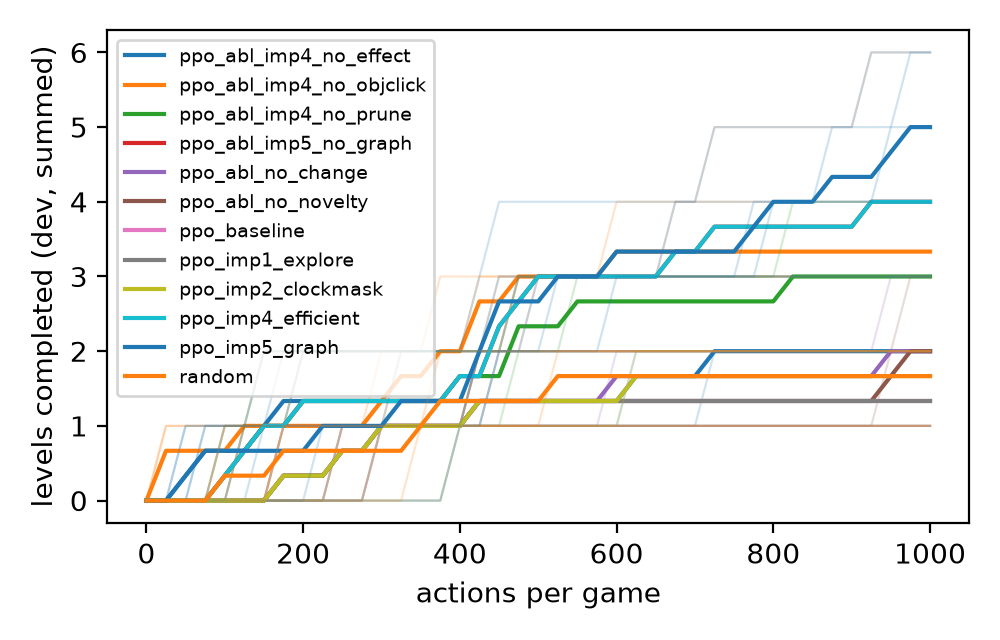
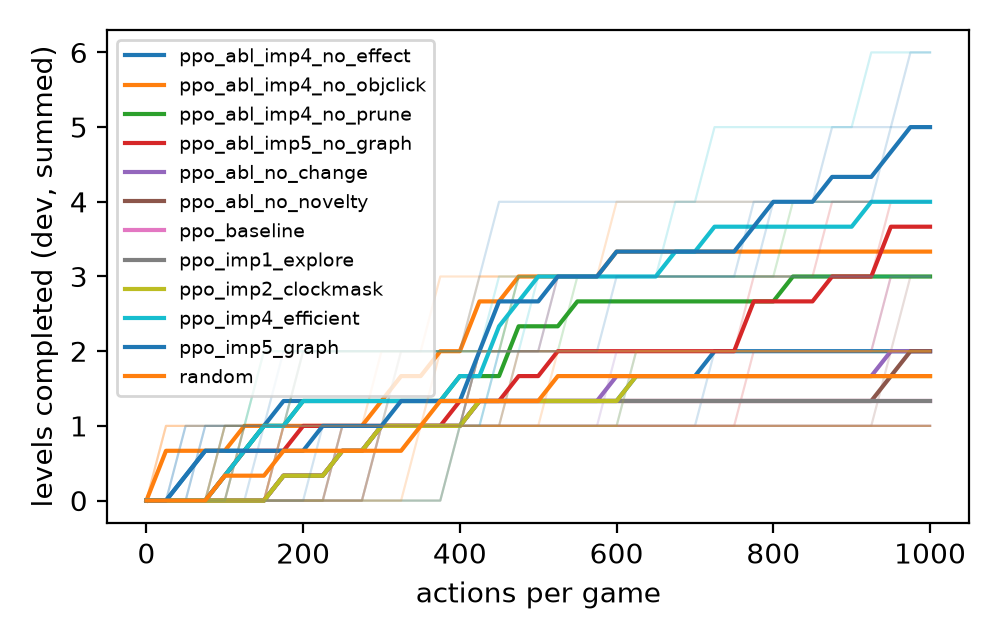
Submit DQN imp4 (best on all 25 public games)

diff --git a/outputs/figures/summary.tex b/outputs/figures/summary.tex
@@ -5,30 +5,45 @@ run_name & split & seeds & score_mean & score_std & score_ci95 & levels_mean & l
 dqn_abl_imp4_no_effect & dev & 3 & 0.05 & 0.08 & 0.09 & 3.00 & 1.00 & 0.00 & 15000.00 & 1500.84 & 0.81 & 9417.33 & 0.64 \\
 dqn_abl_imp4_no_objclick & dev & 3 & 0.06 & 0.05 & 0.06 & 2.67 & 0.58 & 0.00 & 15000.00 & 978.73 & 0.80 & 8425.33 & 0.59 \\
 dqn_abl_imp4_no_prune & dev & 3 & 0.14 & 0.16 & 0.18 & 3.00 & 1.00 & 0.00 & 15000.00 & 1638.46 & 0.79 & 9393.00 & 0.52 \\
-dqn_abl_imp5_no_graph & dev & 3 & 0.14 & 0.16 & 0.18 & 3.00 & 1.00 & 0.00 & 15000.00 & 1488.68 & 0.82 & 9962.33 & 0.65 \\
+dqn_abl_imp5_no_graph & dev & 3 & 0.14 & 0.17 & 0.19 & 3.00 & 1.00 & 0.00 & 15000.00 & 1104.81 & 0.83 & 10062.33 & 0.71 \\
 dqn_abl_no_change & dev & 3 & 0.11 & 0.18 & 0.20 & 2.33 & 0.58 & 0.00 & 15000.00 & 1014.00 & 0.72 & 6802.67 & NaN \\
 dqn_abl_no_novelty & dev & 3 & 0.11 & 0.18 & 0.20 & 2.33 & 0.58 & 0.00 & 15000.00 & 982.60 & 0.75 & 6611.67 & NaN \\
 dqn_abl_scratch_loweps & dev_b & 3 & 0.01 & 0.02 & 0.02 & 0.33 & 0.58 & 0.00 & 5000.00 & 330.48 & 0.56 & 763.33 & NaN \\
 dqn_baseline & dev & 3 & 0.11 & 0.18 & 0.20 & 1.67 & 0.58 & 0.00 & 15000.00 & 1423.64 & 0.67 & 5738.00 & NaN \\
+dqn_baseline & heldout & 3 & 0.00 & 0.00 & 0.00 & 0.00 & 0.00 & 0.00 & 10000.00 & 670.99 & 0.69 & 4199.00 & 0.69 \\
 dqn_imp1_explore & dev & 3 & 0.11 & 0.18 & 0.20 & 2.00 & 1.00 & 0.00 & 15000.00 & 1410.52 & 0.74 & 6577.00 & NaN \\
+dqn_imp1_explore & heldout & 3 & 0.00 & 0.00 & 0.00 & 0.33 & 0.58 & 0.00 & 10000.00 & 671.38 & 0.73 & 4442.33 & 0.73 \\
 dqn_imp2_clockmask & dev & 3 & 0.11 & 0.18 & 0.20 & 2.67 & 0.58 & 0.00 & 15000.00 & 1548.01 & 0.74 & 6981.67 & NaN \\
+dqn_imp2_clockmask & heldout & 3 & 0.00 & 0.00 & 0.00 & 0.33 & 0.58 & 0.00 & 10000.00 & 670.32 & 0.73 & 4468.00 & 0.35 \\
 dqn_imp3_pretrain & dev_b & 3 & 0.01 & 0.01 & 0.01 & 1.33 & 0.58 & 0.00 & 5000.00 & 328.92 & 0.53 & 1145.67 & NaN \\
+dqn_imp3_pretrain_final & heldout & 3 & 0.00 & 0.00 & 0.00 & 0.00 & 0.00 & 0.00 & 10000.00 & 465.60 & 0.74 & 4002.67 & 0.35 \\
 dqn_imp4_efficient & dev & 3 & 0.14 & 0.16 & 0.18 & 3.00 & 1.00 & 0.00 & 15000.00 & 1721.66 & 0.82 & 9962.33 & 0.65 \\
+dqn_imp4_efficient & heldout & 3 & 0.09 & 0.12 & 0.13 & 3.33 & 1.16 & 0.00 & 10000.00 & 753.41 & 0.80 & 6110.33 & 0.53 \\
 dqn_imp5_graph & dev & 3 & 0.14 & 0.15 & 0.17 & 4.67 & 1.53 & 0.00 & 15000.00 & 1278.31 & 0.81 & 9954.00 & 0.66 \\
+dqn_imp5_graph & heldout & 3 & 0.01 & 0.01 & 0.01 & 2.67 & 1.53 & 0.00 & 10000.00 & 730.44 & 0.76 & 5680.67 & 0.53 \\
 ppo_abl_imp4_no_effect & dev & 3 & 0.06 & 0.05 & 0.06 & 2.00 & 0.00 & 0.00 & 15000.00 & 488.27 & 0.73 & 8756.67 & 0.50 \\
 ppo_abl_imp4_no_objclick & dev & 3 & 0.20 & 0.17 & 0.19 & 3.33 & 0.58 & 0.00 & 15000.00 & 917.40 & 0.79 & 8214.00 & 0.57 \\
 ppo_abl_imp4_no_prune & dev & 3 & 0.02 & 0.01 & 0.01 & 3.00 & 1.00 & 0.00 & 15000.00 & 897.06 & 0.78 & 9318.00 & 0.56 \\
-ppo_abl_imp5_no_graph & dev & 3 & 0.03 & 0.03 & 0.03 & 4.00 & 1.73 & 0.00 & 15000.00 & 597.53 & 0.80 & 9818.67 & 0.63 \\
+ppo_abl_imp5_no_graph & dev & 3 & 0.01 & 0.01 & 0.01 & 3.67 & 0.58 & 0.00 & 15000.00 & 630.34 & 0.81 & 9685.33 & 0.68 \\
 ppo_abl_no_change & dev & 3 & 0.00 & 0.00 & 0.00 & 2.00 & 1.00 & 0.00 & 15000.00 & 422.14 & 0.70 & 6426.67 & NaN \\
 ppo_abl_no_novelty & dev & 3 & 0.00 & 0.00 & 0.00 & 2.00 & 1.00 & 0.00 & 15000.00 & 428.29 & 0.72 & 6793.33 & NaN \\
 ppo_baseline & dev & 3 & 0.00 & 0.00 & 0.00 & 1.33 & 0.58 & 0.00 & 15000.00 & 494.39 & 0.68 & 5911.33 & NaN \\
+ppo_baseline & heldout & 3 & 0.01 & 0.01 & 0.01 & 0.67 & 0.58 & 0.00 & 10000.00 & 503.54 & 0.66 & 3827.67 & 0.66 \\
 ppo_imp1_explore & dev & 3 & 0.00 & 0.00 & 0.00 & 1.33 & 0.58 & 0.00 & 15000.00 & 1031.96 & 0.71 & 6356.00 & NaN \\
+ppo_imp1_explore & heldout & 3 & 0.01 & 0.01 & 0.02 & 0.67 & 1.16 & 0.00 & 10000.00 & 552.87 & 0.69 & 4275.00 & 0.69 \\
 ppo_imp2_clockmask & dev & 3 & 0.00 & 0.00 & 0.00 & 1.67 & 0.58 & 0.00 & 15000.00 & 546.76 & 0.71 & 6677.67 & NaN \\
+ppo_imp2_clockmask & heldout & 3 & 0.01 & 0.01 & 0.01 & 0.33 & 0.58 & 0.00 & 10000.00 & 361.78 & 0.69 & 4428.33 & 0.29 \\
 ppo_imp3_pretrain & dev_b & 3 & 0.00 & 0.00 & 0.00 & 0.33 & 0.58 & 0.00 & 5000.00 & 130.16 & 0.61 & 1747.67 & NaN \\
+ppo_imp3_pretrain_final & heldout & 3 & 0.00 & 0.00 & 0.00 & 0.00 & 0.00 & 0.00 & 10000.00 & 287.19 & 0.76 & 5126.67 & 0.43 \\
 ppo_imp4_efficient & dev & 3 & 0.03 & 0.03 & 0.03 & 4.00 & 1.73 & 0.00 & 15000.00 & 514.88 & 0.80 & 9818.67 & 0.63 \\
+ppo_imp4_efficient & heldout & 3 & 0.00 & 0.00 & 0.00 & 2.00 & 1.73 & 0.00 & 10000.00 & 333.16 & 0.80 & 5794.33 & 0.52 \\
 ppo_imp5_graph & dev & 3 & 0.07 & 0.07 & 0.09 & 5.00 & 1.00 & 0.00 & 15000.00 & 638.32 & 0.80 & 9787.33 & 0.64 \\
+ppo_imp5_graph & heldout & 3 & 0.01 & 0.01 & 0.01 & 2.33 & 1.16 & 0.00 & 10000.00 & 321.38 & 0.74 & 5508.00 & 0.49 \\
 random & dev & 3 & 0.01 & 0.01 & 0.01 & 1.67 & 0.58 & 0.00 & 15000.00 & 55.45 & 0.68 & 5922.33 & NaN \\
+random & heldout & 3 & 0.00 & 0.00 & 0.00 & 0.33 & 0.58 & 0.00 & 10000.00 & 38.15 & 0.66 & 3979.67 & 0.66 \\
 random_imp4_actions & dev & 3 & 0.23 & 0.14 & 0.16 & 1.33 & 0.58 & 0.00 & 15000.00 & 72.46 & 0.69 & 8025.33 & 0.45 \\
+random_imp4_actions & heldout & 3 & 0.00 & 0.00 & 0.00 & 1.00 & 0.00 & 0.00 & 10000.00 & 57.53 & 0.68 & 4479.67 & 0.31 \\
 random_imp5_graph & dev & 3 & 0.24 & 0.14 & 0.16 & 2.67 & 1.16 & 0.00 & 15000.00 & 38.63 & 0.69 & 8462.33 & 0.47 \\
+random_imp5_graph & heldout & 3 & 0.00 & 0.00 & 0.00 & 1.67 & 0.58 & 0.00 & 10000.00 & 58.42 & 0.67 & 4629.67 & 0.36 \\
 \bottomrule
 \end{tabular}

diff --git a/outputs/figures/summary.md b/outputs/figures/summary.md
@@ -3,28 +3,43 @@
 | dqn_abl_imp4_no_effect   | dev     |       3 |        0.054 |       0.081 |        0.092 |         3     |        1     |           0 |          15000 |           1500.84  |              0.814 |             9417.33  |              0.642 |
 | dqn_abl_imp4_no_objclick | dev     |       3 |        0.056 |       0.052 |        0.059 |         2.667 |        0.577 |           0 |          15000 |            978.727 |              0.803 |             8425.33  |              0.592 |
 | dqn_abl_imp4_no_prune    | dev     |       3 |        0.139 |       0.156 |        0.176 |         3     |        1     |           0 |          15000 |           1638.46  |              0.79  |             9393     |              0.518 |
-| dqn_abl_imp5_no_graph    | dev     |       3 |        0.138 |       0.156 |        0.177 |         3     |        1     |           0 |          15000 |           1488.68  |              0.823 |             9962.33  |              0.65  |
+| dqn_abl_imp5_no_graph    | dev     |       3 |        0.142 |       0.165 |        0.187 |         3     |        1     |           0 |          15000 |           1104.81  |              0.833 |            10062.3   |              0.715 |
 | dqn_abl_no_change        | dev     |       3 |        0.11  |       0.179 |        0.203 |         2.333 |        0.577 |           0 |          15000 |           1014     |              0.716 |             6802.67  |            nan     |
 | dqn_abl_no_novelty       | dev     |       3 |        0.11  |       0.178 |        0.202 |         2.333 |        0.577 |           0 |          15000 |            982.6   |              0.746 |             6611.67  |            nan     |
 | dqn_abl_scratch_loweps   | dev_b   |       3 |        0.009 |       0.016 |        0.018 |         0.333 |        0.577 |           0 |           5000 |            330.483 |              0.561 |              763.333 |            nan     |
 | dqn_baseline             | dev     |       3 |        0.108 |       0.18  |        0.204 |         1.667 |        0.577 |           0 |          15000 |           1423.64  |              0.671 |             5738     |            nan     |
+| dqn_baseline             | heldout |       3 |        0     |       0     |        0     |         0     |        0     |           0 |          10000 |            670.993 |              0.686 |             4199     |              0.686 |
 | dqn_imp1_explore         | dev     |       3 |        0.112 |       0.177 |        0.2   |         2     |        1     |           0 |          15000 |           1410.52  |              0.742 |             6577     |            nan     |
+| dqn_imp1_explore         | heldout |       3 |        0.001 |       0.002 |        0.002 |         0.333 |        0.577 |           0 |          10000 |            671.383 |              0.729 |             4442.33  |              0.729 |
 | dqn_imp2_clockmask       | dev     |       3 |        0.113 |       0.176 |        0.199 |         2.667 |        0.577 |           0 |          15000 |           1548.01  |              0.741 |             6981.67  |            nan     |
+| dqn_imp2_clockmask       | heldout |       3 |        0     |       0.001 |        0.001 |         0.333 |        0.577 |           0 |          10000 |            670.323 |              0.727 |             4468     |              0.35  |
 | dqn_imp3_pretrain        | dev_b   |       3 |        0.005 |       0.006 |        0.007 |         1.333 |        0.577 |           0 |           5000 |            328.917 |              0.533 |             1145.67  |            nan     |
+| dqn_imp3_pretrain_final  | heldout |       3 |        0     |       0     |        0     |         0     |        0     |           0 |          10000 |            465.597 |              0.74  |             4002.67  |              0.347 |
 | dqn_imp4_efficient       | dev     |       3 |        0.138 |       0.156 |        0.177 |         3     |        1     |           0 |          15000 |           1721.66  |              0.823 |             9962.33  |              0.65  |
+| dqn_imp4_efficient       | heldout |       3 |        0.094 |       0.117 |        0.132 |         3.333 |        1.155 |           0 |          10000 |            753.407 |              0.802 |             6110.33  |              0.529 |
 | dqn_imp5_graph           | dev     |       3 |        0.141 |       0.154 |        0.175 |         4.667 |        1.528 |           0 |          15000 |           1278.31  |              0.811 |             9954     |              0.657 |
+| dqn_imp5_graph           | heldout |       3 |        0.005 |       0.006 |        0.007 |         2.667 |        1.528 |           0 |          10000 |            730.437 |              0.761 |             5680.67  |              0.526 |
 | ppo_abl_imp4_no_effect   | dev     |       3 |        0.061 |       0.052 |        0.059 |         2     |        0     |           0 |          15000 |            488.27  |              0.734 |             8756.67  |              0.503 |
 | ppo_abl_imp4_no_objclick | dev     |       3 |        0.2   |       0.167 |        0.189 |         3.333 |        0.577 |           0 |          15000 |            917.4   |              0.79  |             8214     |              0.572 |
 | ppo_abl_imp4_no_prune    | dev     |       3 |        0.016 |       0.012 |        0.014 |         3     |        1     |           0 |          15000 |            897.063 |              0.778 |             9318     |              0.562 |
-| ppo_abl_imp5_no_graph    | dev     |       3 |        0.027 |       0.029 |        0.032 |         4     |        1.732 |           0 |          15000 |            597.533 |              0.8   |             9818.67  |              0.627 |
+| ppo_abl_imp5_no_graph    | dev     |       3 |        0.014 |       0.013 |        0.015 |         3.667 |        0.577 |           0 |          15000 |            630.337 |              0.808 |             9685.33  |              0.683 |
 | ppo_abl_no_change        | dev     |       3 |        0.003 |       0.002 |        0.002 |         2     |        1     |           0 |          15000 |            422.137 |              0.697 |             6426.67  |            nan     |
 | ppo_abl_no_novelty       | dev     |       3 |        0.003 |       0.002 |        0.002 |         2     |        1     |           0 |          15000 |            428.287 |              0.716 |             6793.33  |            nan     |
 | ppo_baseline             | dev     |       3 |        0.003 |       0.002 |        0.002 |         1.333 |        0.577 |           0 |          15000 |            494.387 |              0.675 |             5911.33  |            nan     |
+| ppo_baseline             | heldout |       3 |        0.01  |       0.013 |        0.014 |         0.667 |        0.577 |           0 |          10000 |            503.537 |              0.656 |             3827.67  |              0.656 |
 | ppo_imp1_explore         | dev     |       3 |        0.003 |       0.002 |        0.002 |         1.333 |        0.577 |           0 |          15000 |           1031.96  |              0.712 |             6356     |            nan     |
+| ppo_imp1_explore         | heldout |       3 |        0.008 |       0.014 |        0.016 |         0.667 |        1.155 |           0 |          10000 |            552.867 |              0.693 |             4275     |              0.693 |
 | ppo_imp2_clockmask       | dev     |       3 |        0.003 |       0.003 |        0.003 |         1.667 |        0.577 |           0 |          15000 |            546.757 |              0.711 |             6677.67  |            nan     |
+| ppo_imp2_clockmask       | heldout |       3 |        0.008 |       0.013 |        0.015 |         0.333 |        0.577 |           0 |          10000 |            361.78  |              0.695 |             4428.33  |              0.286 |
 | ppo_imp3_pretrain        | dev_b   |       3 |        0     |       0     |        0     |         0.333 |        0.577 |           0 |           5000 |            130.16  |              0.613 |             1747.67  |            nan     |
+| ppo_imp3_pretrain_final  | heldout |       3 |        0     |       0     |        0     |         0     |        0     |           0 |          10000 |            287.187 |              0.762 |             5126.67  |              0.432 |
 | ppo_imp4_efficient       | dev     |       3 |        0.027 |       0.029 |        0.032 |         4     |        1.732 |           0 |          15000 |            514.877 |              0.8   |             9818.67  |              0.627 |
+| ppo_imp4_efficient       | heldout |       3 |        0.003 |       0.003 |        0.003 |         2     |        1.732 |           0 |          10000 |            333.16  |              0.798 |             5794.33  |              0.515 |
 | ppo_imp5_graph           | dev     |       3 |        0.07  |       0.075 |        0.085 |         5     |        1     |           0 |          15000 |            638.32  |              0.797 |             9787.33  |              0.635 |
+| ppo_imp5_graph           | heldout |       3 |        0.005 |       0.007 |        0.008 |         2.333 |        1.155 |           0 |          10000 |            321.377 |              0.743 |             5508     |              0.492 |
 | random                   | dev     |       3 |        0.01  |       0.011 |        0.012 |         1.667 |        0.577 |           0 |          15000 |             55.447 |              0.676 |             5922.33  |            nan     |
+| random                   | heldout |       3 |        0.002 |       0.003 |        0.003 |         0.333 |        0.577 |           0 |          10000 |             38.15  |              0.66  |             3979.67  |              0.66  |
 | random_imp4_actions      | dev     |       3 |        0.235 |       0.144 |        0.162 |         1.333 |        0.577 |           0 |          15000 |             72.463 |              0.694 |             8025.33  |              0.446 |
+| random_imp4_actions      | heldout |       3 |        0.001 |       0.001 |        0.001 |         1     |        0     |           0 |          10000 |             57.53  |              0.675 |             4479.67  |              0.314 |
 | random_imp5_graph        | dev     |       3 |        0.236 |       0.142 |        0.161 |         2.667 |        1.155 |           0 |          15000 |             38.633 |              0.692 |             8462.33  |              0.472 |
+| random_imp5_graph        | heldout |       3 |        0.001 |       0.001 |        0.001 |         1.667 |        0.577 |           0 |          10000 |             58.42  |              0.673 |             4629.67  |              0.363 |

diff --git a/docs/EXPERIMENT_LOG.md b/docs/EXPERIMENT_LOG.md
@@ -26,6 +26,9 @@ Hardware for all rows so far: MacBook Pro, Intel x86_64 CPU, no GPU, torch 2.2.2
 | 25 Sept | random_imp5_graph | random_imp5_graph.yaml | dev | 0,1,2 | 0.236 ± 0.142 | 2.67 ± 1.15 | 1 min | control; graph without learning |
 | 25 Sept | dqn_imp5_graph | dqn_imp5_graph.yaml | dev | 0,1,2 | 0.141 ± 0.154 | 4.67 ± 1.53 | 21 min | 2 × tu93 level 2; determinism 98.6% |
 | 25 Sept | ppo_imp5_graph | ppo_imp5_graph.yaml | dev | 0,1,2 | 0.070 ± 0.075 | 5.00 ± 1.00 | 11 min | 2 × tu93 level 2; determinism 98.6% |
+| 25 Sept | dqn_abl_imp5_no_graph (rerun) | ablations/dqn_imp5_no_graph.yaml | dev | 0,1,2 | 0.142 | 3.00 ± 1.00 | 18 min | valid after fix; no tu93 |
+| 25 Sept | ppo_abl_imp5_no_graph (rerun) | ablations/ppo_imp5_no_graph.yaml | dev | 0,1,2 | 0.014 | 3.67 ± 0.58 | 11 min | valid after fix; no tu93 |
+| 25–26 Sept | 15 versions | see held-out section | heldout | 0,1,2 | see held-out section | | | run once |
 
 Improvement 3 runs (dev_b = cn04, lp85, sk48, su15, tu93; levels out of 5 games' worth; imp1/imp2/baselines pooled from dev runs):
 
@@ -410,8 +413,99 @@ comparing against published ARC-AGI-3 agents, which surfaced a limitation the lo
   `clock_mask_timed` are unaffected (bit-for-bit reproduction re-checked for baseline, imp2 and imp4). The graph path is
   unchanged, so imp5 results stand. Test added (`test_timed_clock_mask_is_active_without_graph`).
 - **What the invalid run still shows:** imp4 is reproducible run to run on the same machine and seeds (all numbers identical).
-- **Rerun:** pending (`--overwrite`).
-- **Result:**
+- **Rerun (25–26 Sept), valid result: the graph, not the timed mask, produces improvement 5's gain.**
+
+  | Run (dev) | Levels (per seed) | tu93 levels (sum over seeds) | Level-2 completions |
+  |---|---|---|---|
+  | dqn_imp4_efficient | 3.00 (4, 2, 3) | 0 | 0 |
+  | dqn_abl_imp5_no_graph (imp4 + timed mask) | 3.00 (3, 2, 4) | 0 | 0 |
+  | dqn_imp5_graph | 4.67 (6, 5, 3) | 4 | 2 |
+  | ppo_imp4_efficient | 4.00 (6, 3, 3) | 2 | 1 |
+  | ppo_abl_imp5_no_graph (imp4 + timed mask) | 3.67 (4, 3, 4) | 0 | 0 |
+  | ppo_imp5_graph | 5.00 (4, 5, 6) | 5 | 2 |
+
+  - The timed mask alone changes the runs (the ablation now differs from imp4 game by game) but not the level count:
+    DQN 3.00 → 3.00, PPO 4.00 → 3.67. It completes no tu93 levels at all, where the graph gives 4 (DQN) and 5 (PPO).
+  - So on dev, improvement 5's gain is attributable to the graph, and specifically to tu93, where return navigation is
+    active (15% of actions).
+
+## Held-out evaluation (25–26 Sept; 10 games never used in development; 3 seeds; run once, nothing tuned after)
+
+Games: ar25, bp35, cd82, dc22, ft09, g50t, lf52, m0r0, tr87, vc33. Levels are summed over the 10 games.
+
+| Run | Levels (per seed) | Games with ≥1 level | Level-2 completions | Distinct frames | Score |
+|---|---|---|---|---|---|
+| random | 0.33 (0, 1, 0) | 0.33 | 0 | 3980 | 0.002 |
+| random_imp4_actions | 1.00 (1, 1, 1) | 1.00 | 0 | 4480 | 0.001 |
+| random_imp5_graph | 1.67 (2, 1, 2) | 1.67 | 0 | 4630 | 0.001 |
+| dqn_baseline / imp1 / imp2 | 0.00 / 0.33 / 0.33 | ≤ 0.33 | 0 | 4199 / 4442 / 4468 | ≤ 0.001 |
+| dqn_imp3_pretrain_final | 0.00 (0, 0, 0) | 0 | 0 | 4003 | 0.000 |
+| **dqn_imp4_efficient** | **3.33 (2, 4, 4)** | **2.33** | **3** | **6110** | **0.094** |
+| dqn_imp5_graph | 2.67 (4, 1, 3) | 2.67 | 0 | 5681 | 0.005 |
+| ppo_baseline / imp1 / imp2 | 0.67 / 0.67 / 0.33 | ≤ 0.67 | 0 | 3828 / 4275 / 4428 | ≤ 0.010 |
+| ppo_imp3_pretrain_final | 0.00 (0, 0, 0) | 0 | 0 | 5127 | 0.000 |
+| ppo_imp4_efficient | 2.00 (4, 1, 1) | 1.67 | 1 | 5794 | 0.003 |
+| ppo_imp5_graph | 2.33 (3, 3, 1) | 2.33 | 0 | 5508 | 0.005 |
+
+- **Improvements 1–3 do not generalise.** Baselines, shaping (imp1, imp2) and pretraining (imp3) complete 0–0.67 levels
+  on held-out games, at or below plain random (0.33). Pretraining on all 15 dev games gave 0 levels for both algorithms
+  (imp2 from scratch: 0.33 each). The dev_b finding (exploration transfers, goals do not) held, and on held-out games
+  even the exploration benefit gave no levels.
+- **Improvement 4 generalises; it is the main held-out result.** DQN imp4 3.33 and PPO imp4 2.00 levels, against 0.33
+  for imp2. Both are above random over the same action abstraction (1.00). DQN imp4 also produced every held-out
+  second level: vc33 (seed 0 at actions 681/713, seed 1 at 385/868) and ar25 (seed 2 at 624/788).
+- **Within-game learning is visible in the second levels.** DQN seed 0 completed vc33 level 2 only 32 actions after
+  level 1 (human baseline 18), against 681 actions for level 1. That single completion produces most of DQN imp4's
+  held-out score (vc33 per-game score 2.26).
+- **Improvement 5 does not generalise beyond improvement 4.** DQN 3.33 → 2.67 (lower), PPO 2.00 → 2.33; neither
+  reached a held-out second level. Its dev gain came from tu93; no held-out game has tu93's combination of few actions
+  and a short life where return navigation pays off. The one held-out game with heavy navigation (g50t, 230 planned
+  steps per game) was never completed by any agent.
+- **Determinism is lower on held-out games:** 87–90% of repeated (state, action) pairs were consistent (98.6% on dev).
+  More inconsistency makes graph edges less reliable, which is consistent with improvement 5's weaker held-out result.
+- **Normalised per game, held-out is not harder than dev overall:** levels per game dev → held-out: DQN imp4 0.20 →
+  0.33, PPO imp4 0.27 → 0.20, DQN imp5 0.31 → 0.27, PPO imp5 0.33 → 0.23, random-with-graph 0.18 → 0.17. The
+  generalisation failure is specific to improvements 1–3 and to improvement 5's extra gain.
+- **Score:** outside vc33 and ar25 second levels, every held-out score is ≤ 0.03. ft09, which appears in the official
+  starter material, was completed by almost every version including random, so it does not separate agents.
+
+## Paired statistics (`scripts/stats.py`, levels per game, games as the unit, seeds averaged)
+
+- **Design limit:** most games are never completed by any agent, so most per-game differences are exact ties. With
+  3–4 non-tied games, the smallest possible two-sided sign-flip p-value is 0.125–0.25. **No comparison can reach
+  p < 0.05 at this scale**, whatever the effect size. Bootstrap CIs over games are reported, but with so many ties
+  they are optimistic. Treat both as descriptive and state this limitation in the report.
+- **Comparisons whose 95% bootstrap CI excludes zero** (mean difference in levels per game [CI], games A>B / A<B / tie):
+  - dev: PPO imp4 vs imp2 +0.156 [0.044, 0.289] 4/0/11; DQN imp4 vs random-imp4-actions +0.111 [0.022, 0.222] 4/0/11;
+    PPO imp4 vs random-imp4-actions +0.178 [0.044, 0.356] 4/0/11; PPO imp4 vs its no-effect ablation +0.133
+    [0.022, 0.267] 4/0/11; DQN imp5 vs random-with-graph +0.133 [0.022, 0.267] 4/0/11.
+  - held-out: DQN imp4 vs imp2 +0.300 [0.067, 0.667] 4/0/6; DQN imp4 vs random-imp4-actions +0.233 [0.067, 0.467] 4/0/6.
+- **Consistent direction, CI touching zero:** DQN/PPO imp5 vs imp4 on dev; PPO imp4 vs imp2 on held-out
+  (+0.167 [0.000, 0.400]); all learner-vs-random-with-graph comparisons on held-out.
+- **No difference:** every improvement 1–3 comparison, on dev and held-out; DQN vs PPO at matched versions.
+
+## Submission decision after held-out (26 Sept): DQN imp4
+Kaggle ranks by the official, efficiency-weighted score on unseen games, so the choice uses all 25 public games
+(dev + held-out) and excludes r11l, where random over the same actions matches the learners by luck.
+
+| Agent | Levels (25 games, per seed) | Level-2 completions | Games solved | Score | Score excl. r11l | Minutes per seed (Mac CPU) |
+|---|---|---|---|---|---|---|
+| **dqn_imp4_efficient** | 6.33 (6, 6, 7) | **3** | 9 | **0.121** | **0.042** | 41 |
+| dqn_imp5_graph | 7.33 (10, 6, 6) | 2 | 11 | 0.086 | 0.006 | 33 |
+| ppo_imp4_efficient | 6.00 (10, 4, 4) | 2 | 8 | 0.017 | 0.010 | 14 |
+| ppo_imp5_graph | 7.33 (7, 8, 7) | 2 | 9 | 0.044 | 0.004 | 16 |
+| random_imp5_graph | 4.33 (6, 3, 4) | 1 | 5 | 0.142 | 0.001 | 2 |
+
+- **Chosen: DQN imp4.** Best score once r11l is excluded, and the best agent on held-out games (the closest analogue of
+  Kaggle's hidden games). The imp5 agents complete about one more level in total, but late, so those levels earn almost
+  no score. DQN imp4's second levels came quickly after the first (vc33 level 2 in 32 actions), which is what the metric
+  rewards. It also does not depend on the determinism assumption, which was weaker on held-out games (87–90%).
+- **Caveats, to be stated in the report:** (1) this replaces the pre-registered dev-only choice (PPO imp5) and was made
+  after seeing held-out results, so DQN imp4's held-out numbers are an optimistic estimate of its performance on new
+  games; (2) its score lead rests on few events: vc33 seed 0 alone contributes about 0.030 of its 0.042, and without it
+  DQN imp4 (≈0.012) is roughly level with PPO imp4 (0.010); (3) DQN is about 2.6× slower than PPO, so the Kaggle rerun's
+  time limit must be checked with the first submission.
+- The pre-registered comparisons in the report (all dev and held-out tables) are unaffected by this choice.
 
 ### Optional, not in the main chain
 Frame-stack memory (`*_opt_memory.yaml`) and object-aware clicks (`*_opt_objclick.yaml`) remain available as extra
